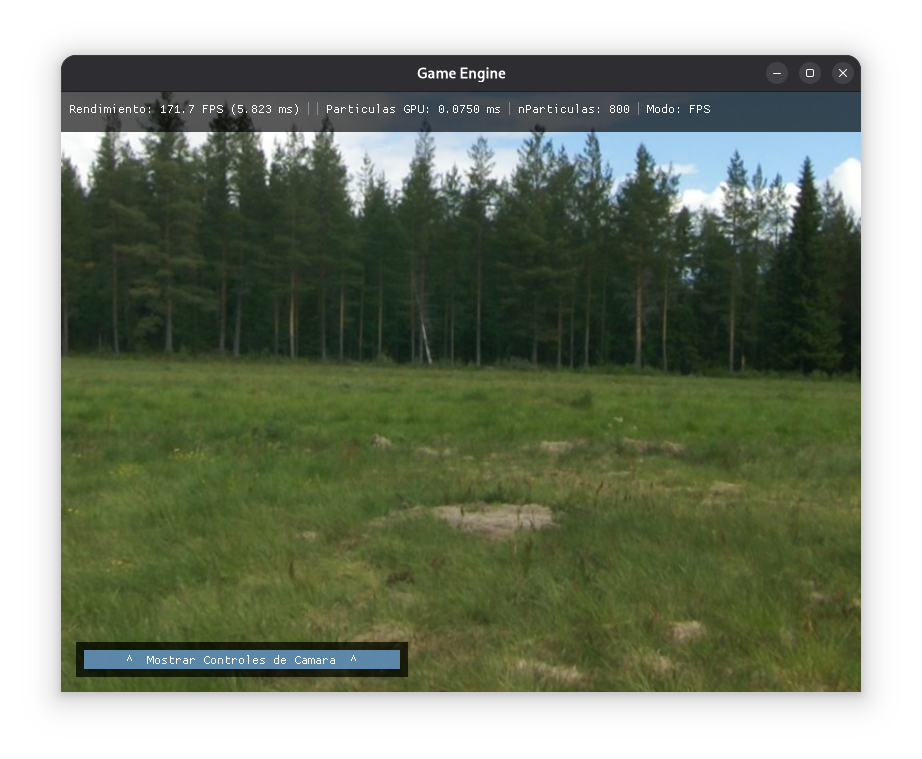
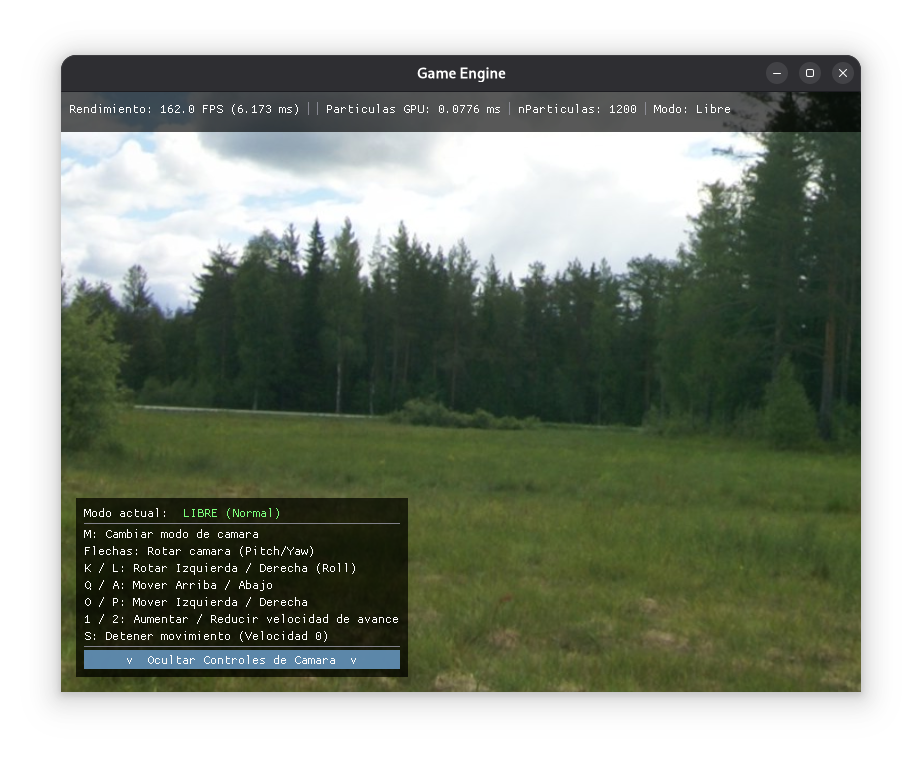
-

diff --git a/Memoria/Secciones/MejorasRespectoAlCodigoInicial.tex b/Memoria/Secciones/MejorasRespectoAlCodigoInicial.tex
@@ -66,7 +66,31 @@ Con el fin de monitorizar el rendimiento y el estado de la aplicación en tiempo
     \label{fig:ImGui}
 \end{figure}
 
-<Explicar clases modificadas y creadas y como funciona mas o menos>
+Como se ilustra en la \textbf{Figura \ref{fig:ImGui}}, la distribución visual del panel se ha diseñado para maximizar el espacio útil de la simulación tridimensional sin saturar la pantalla. En la sección superior del menú superpuesto se agrupan de forma clara todas las métricas de telemetría globales, tales como la tasa de fotogramas, el tiempo de ciclo por frame y el contador total de partículas en ejecución. Por otro lado, en la esquina inferior izquierda de la ventana se despliega un cuadro de texto dinámico que renderiza exclusivamente el esquema de controles del modo de cámara que se encuentre activo en ese instante, ofreciendo una guía interactiva y contextualizada para la navegación del usuario.
+
+\subsection{Adaptación estructural e integración en el flujo de Vulkan}
+La integración de una interfaz de modo inmediato sobre una API de bajo nivel como Vulkan requiere una sincronización precisa y una separación clara de responsabilidades para no penalizar el rendimiento del hilo principal de renderizado. 
+
+Esta necesidad supuso una ruptura importante con respecto a la arquitectura del código inicial. En la versión original de la aplicación, el registro de comandos de renderizado se gestionaba de manera monolítica y centralizada a través de la función \texttt{fillCommandBuffer}, encargada de registrar secuencialmente todas las instrucciones de dibujo en los búferes de Vulkan. La incorporación de ImGui hizo inviable este enfoque concentrado, forzando una refactorización estructural profunda. En el nuevo motor gráfico, la función \texttt{fillCommandBuffer} desaparece por completo, y su funcionalidad se fragmenta y distribuye en métodos especializados dentro de clases de contexto (como \texttt{GECommandContext} y \texttt{GEGraphicsContext}) y subsistemas específicos de la interfaz.
+
+El ciclo de vida y el funcionamiento interno de este componente se estructuran bajo las siguientes fases y adaptaciones clave:
+
+\begin{enumerate}
+    \item \textbf{Inicialización y reserva de descriptores:} Vulkan exige preasignar los recursos que consumirá la interfaz. Para ello, se configura un \texttt{VkDescriptorPool} independiente con un tamaño específico para los muestreadores de texturas (\textit{samplers}) que utiliza ImGui para renderizar sus fuentes tipográficas y elementos visuales. Posteriormente, se inicializan los contextos específicos de la librería vinculando las funciones de la ventana de GLFW y las estructuras de datos de Vulkan (\texttt{ImGui\_ImplGlfw\_InitForVulkan} e \texttt{ImGui\_ImplVulkan\_Init}).
+    \item \textbf{Inyección en el Render Pass principal:} El dibujado de la interfaz gráfica debe consolidarse como la última etapa del procesamiento de la escena para asegurar su correcta superposición sobre los objetos 3D y el sistema de partículas. Durante la grabación del búfer de comandos (\texttt{VkCommandBuffer}), tras emitir las llamadas de dibujo (*draw calls*) de la geometría y el \textit{skybox}, se abre una sección específica de comandos mediante \texttt{ImGui\_ImplVulkan\_RenderDrawData}, inyectando las listas de vértices e índices generadas dinámicamente por la interfaz.
+    \item \textbf{Bucle de actualización (\textit{New Frame}):} Al inicio de cada iteración del bucle principal de la aplicación, el motor invoca los métodos de preparación de fotograma de ImGui. En este punto, se actualizan los temporizadores internos, se capturan los eventos de entrada del teclado y ratón (evitando que se propaguen de forma no deseada a los controles de la cámara si el usuario interactúa con los menús) y se evalúa la lógica del panel.
+    \item \textbf{Abstracción de la telemetría y controles:} Para desacoplar la lógica de renderizado de la lógica de presentación, se ha implementado un método que centraliza la construcción de los widgets de texto, selectores y gráficas. Utilizando las llamadas nativas de la API (\texttt{ImGui::Begin}, \texttt{ImGui::Text} y \texttt{ImGui::SliderFloat}), se extraen en tiempo real variables del sistema tales como el \textit{delta time} del \texttt{GETimer}, el contador de partículas activas del \textit{compute shader} y el estado de la matriz de vista del gestor de cámaras.
+\end{enumerate}
+
+\subsection{Elementos de telemetría y control expuestos en la interfaz}
+Con el objetivo de centralizar el diagnóstico técnico en tiempo real, sin recurrir a la salida por consola estándar, el panel superpuesto de \textit{ImGui} se estructuró en varias secciones lógicas diferenciadas, abstrayendo métricas críticas del motor gráfico:
+
+\begin{itemize}
+    \item \textbf{Métricas de rendimiento físico y de renderizado:} Se expone de forma continua la tasa de fotogramas por segundo (FPS) junto con el tiempo de cálculo por fotograma medido en milisegundos ($ms$). Esto permite evaluar instantáneamente el impacto sobre la GPU al modificar la carga geométrica o la densidad de los sistemas de partículas.
+    \item \textbf{Estado de la simulación de partículas:} Mediante la lectura directa de los parámetros enviados a los \textit{compute shaders}, la interfaz refleja el número total de partículas concurrentes activas en la escena física. Esto resulta de vital importancia para comprobar los límites del hardware durante las pruebas de estrés del sistema.
+    \item \textbf{Estado y control de la cámara:} El panel detecta dinámicamente qué modo de cámara se encuentra seleccionado (Libre, FPS u Orbital). En función de este estado, la interfaz muta de forma condicional para listar las instrucciones de navegación específicas, guiando al usuario sobre qué periféricos (combinaciones de teclado o ratón) controlan el movimiento en ese modo concreto.
+    \item \textbf{Información condicional del modo observación:} Cuando el usuario activa el modo de cámara orbital o de enfoque, el panel se actualiza automáticamente para mostrar el nombre del objeto que se está mirando en ese momento.
+\end{itemize}
 
 \section{Vcpkg}
 A nivel de arquitectura y gestión del proyecto, se ha adoptado \textit{vcpkg} \parencite{vcpkg_ms} como gestor de dependencias y paquetes de C/C++. En el ecosistema de C++, la integración de múltiples librerías de terceros (como GLFW, GLM, Vulkan Headers, la mencionada ImGui o TinyObjLoader) suele generar problemas de compatibilidad y complicar la configuración multiplataforma. El uso de vcpkg automatiza la descarga, compilación y enlazado (\textit{linking}) de estas librerías directamente en el entorno de desarrollo (como CMake o Visual Studio), garantizando un entorno de trabajo unificado, replicable y mucho más limpio.

diff --git a/Memoria/Secciones/Conclusion.tex b/Memoria/Secciones/Conclusion.tex
@@ -3,6 +3,15 @@
 
 En este capítulo final se presenta un balance crítico del desarrollo del proyecto, evaluando el cumplimiento de los objetivos establecidos y analizando de forma detallada los resultados visuales obtenidos en cada uno de los sistemas de partículas implementados. Asimismo, se esbozan las líneas de investigación y desarrollo que quedan abiertas para futuras expansiones del motor gráfico.
 
+La evolución del motor gráfico desde su estado inicial hasta el sistema de partículas masivo actual ha estado fuertemente condicionada por la necesidad de construir un software robusto, estable y mantenible. La API Vulkan, debido a su naturaleza de bajo nivel, no proporciona abstracciones para tareas comunes como la carga de geometría, el manejo de memoria o la creación de interfaces de usuario. Por ello, la incorporación de tecnologías adicionales estuvo plenamente justificada bajo criterios de ingeniería de software:
+
+\begin{itemize}
+    \item \textbf{Migración a punteros inteligentes (\texttt{std::unique\_ptr} y \texttt{std::shared\_ptr}):} Al trabajar con gráficos en tiempo real, las fugas de memoria (\textit{memory leaks}) pueden saturar tanto la RAM como la VRAM de la GPU en cuestión de segundos. El uso de punteros crudos tradicionales heredados de C resultaba inviable para un entorno modular. La adopción de punteros inteligentes garantizó la destrucción automática de los recursos siguiendo el paradigma RAII, eliminando por completo la gestión manual de memoria y elevando drásticamente la estabilidad de la aplicación.
+    \item \textbf{Librería TinyObjLoader:} Desarrollar un analizador (\textit{parser}) propio para mallas tridimensionales habría desviado el foco principal del proyecto, que era la simulación de partículas en la GPU. La elección de \texttt{tinyobjloader} se justificó por ser una librería ligera, sin dependencias externas y extremadamente eficiente, lo que facilitó la importación nativa de coordenadas, normales y texturas de modelos OBJ complejos directamente hacia los búferes de Vulkan.
+    \item \textbf{Dear ImGui y la distribución de comandos:} La inclusión de una interfaz gráfica era imprescindible para controlar la escena y monitorizar el rendimiento. Se optó por ImGui debido a su bajo impacto computacional y su paradigma de modo inmediato. Además, su integración justificó una reestructuración profunda de la arquitectura interna del motor: obligó a fragmentar la antigua función monolítica \texttt{fillCommandBuffer} en métodos especializados y distribuidos, logrando un flujo de renderizado mucho más flexible y desacoplado.
+    \item \textbf{Gestor de paquetes Vcpkg:} En el ecosistema moderno de C++, la compilación y el enlace manual de librerías de terceros suele generar conflictos entre plataformas. La adopción de \textit{vcpkg} automatizó por completo la gestión de dependencias (GLFW, GLM, ImGui y TinyObjLoader). Esta decisión garantizó que el proyecto dispusiera de un entorno limpio, unificado y reproducible en cualquier máquina de desarrollo sin necesidad de configurar variables de entorno complejas.
+\end{itemize}
+
 \section{Consecución de objetivos}
 
 El propósito principal de este Trabajo de Fin de Grado consistía en diseñar e implementar un motor de partículas masivo y de alto rendimiento utilizando la API de bajo nivel Vulkan, trasladando por completo la lógica del ciclo de vida de los elementos a la GPU a través de \textit{Compute Shaders}. Tras la culminación del desarrollo, se puede afirmar que los objetivos fundamentales se han cumplido con éxito. 
@@ -14,9 +23,6 @@ A través de la arquitectura modular construida, se ha logrado demostrar que es 
 A diferencia de una prueba de rendimiento comparativo puro, el foco de esta evaluación radica en demostrar el éxito del sistema en su vertiente estética y procedimental: cómo fórmulas cinemáticas y matemáticas simples, ejecutadas en paralelo, son capaces de falsear con gran fidelidad la naturaleza de fluidos y gases mediante el menor coste computacional posible.
 
 A continuación, se comentan y analizan los resultados visuales finales obtenidos en cada uno de los tres entornos desarrollados:
-
-
-
 
 
 \section{Trabajo futuro}
@@ -31,6 +37,3 @@ Aunque el motor gráfico desarrollado cumple con creces los objetivos de generac
 \end{itemize}
 
 
-
-
-Agua, fuego y humo a la seccion de metodologia, y añadir reflexion del codigo independiente como conclusiones, renombrar la seccion del codigo de partida, explicar mas o menos porque seria buieno añadir el codigo extra